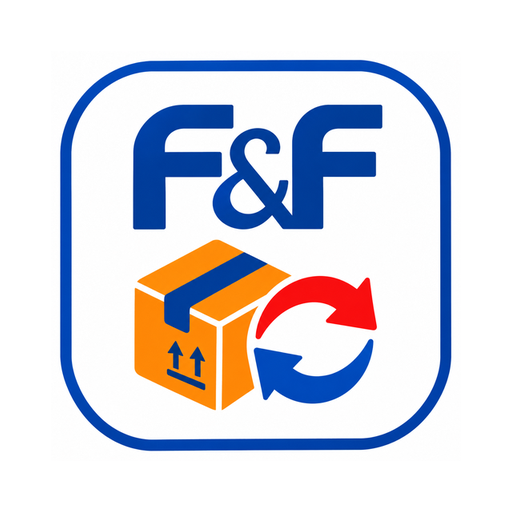
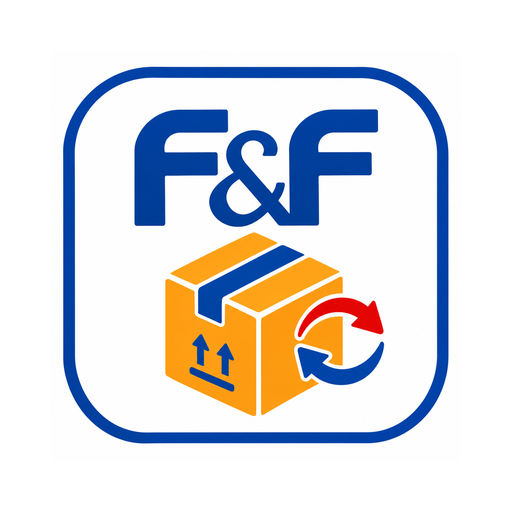
Troca o ícone do app pela nova versão
Claude-Session: https://claude.ai/code/session_01CZFmzHFJSJjWp4VaxFJJDp

diff --git a/index.html b/index.html
@@ -9,9 +9,9 @@
 <meta name="apple-mobile-web-app-capable" content="yes">
 <meta name="apple-mobile-web-app-status-bar-style" content="default">
 <meta name="apple-mobile-web-app-title" content="Estoque FFSP">
-<link rel="manifest" href="manifest.json?v=2">
-<link rel="apple-touch-icon" href="icon-180.png?v=2">
-<link rel="icon" href="icon-192.png?v=2">
+<link rel="manifest" href="manifest.json?v=3">
+<link rel="apple-touch-icon" href="icon-180.png?v=3">
+<link rel="icon" href="icon-192.png?v=3">
 <link rel="stylesheet" href="styles.css">
 <script src="https://cdn.jsdelivr.net/npm/xlsx@0.18.5/dist/xlsx.full.min.js" defer></script>
 </head>

diff --git a/sw.js b/sw.js
@@ -1,5 +1,5 @@
 // Service worker: notificações com o app fechado + funcionamento básico offline
-const CACHE = "estoque-v15";
+const CACHE = "estoque-v16";
 const ARQUIVOS = ["./", "./index.html", "./app.js", "./styles.css", "./config.js", "./manifest.json", "./icon-192.png"];
 
 self.addEventListener("install", (e) => {
